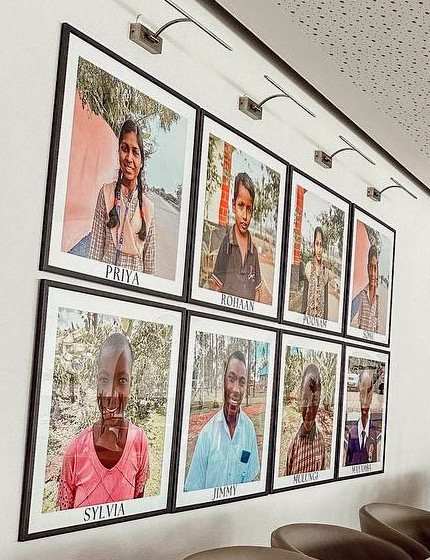
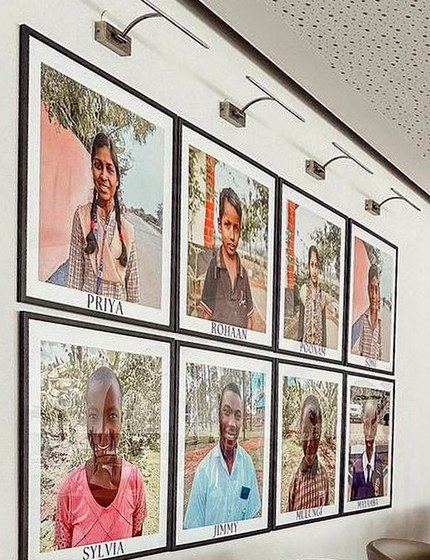
Porträt-Foto perspektivisch begradigt, Rahmenabstand wiederhergestellt

diff --git a/assets/css/style.css b/assets/css/style.css
@@ -309,7 +309,7 @@ figcaption::before { content: ""; width: 24px; height: 1px; background: currentC
 /* Espresso-Sektion mit Kennzahlen */
 .story .img-col { grid-column: 1 / span 5; }
 .story .text-col { grid-column: 7 / span 6; align-self: center; }
-.story .frame { padding: 0; border: 1px solid var(--rule-dark); }
+.story .frame { padding: 12px; border: 1px solid var(--rule-dark); }
 .stats { display: grid; grid-template-columns: repeat(3, 1fr); gap: var(--col-gap); margin-top: clamp(40px, 5vw, 64px); padding-top: 32px; border-top: 1px solid var(--rule-dark); }
 .stat-num { display: block; font: italic 400 clamp(2.8rem, 4.6vw, 4rem)/1 var(--serif); color: var(--sage); margin-bottom: 12px; }
 .stat-text { font-size: 0.92rem; color: var(--on-dark-2); line-height: 1.5; }
